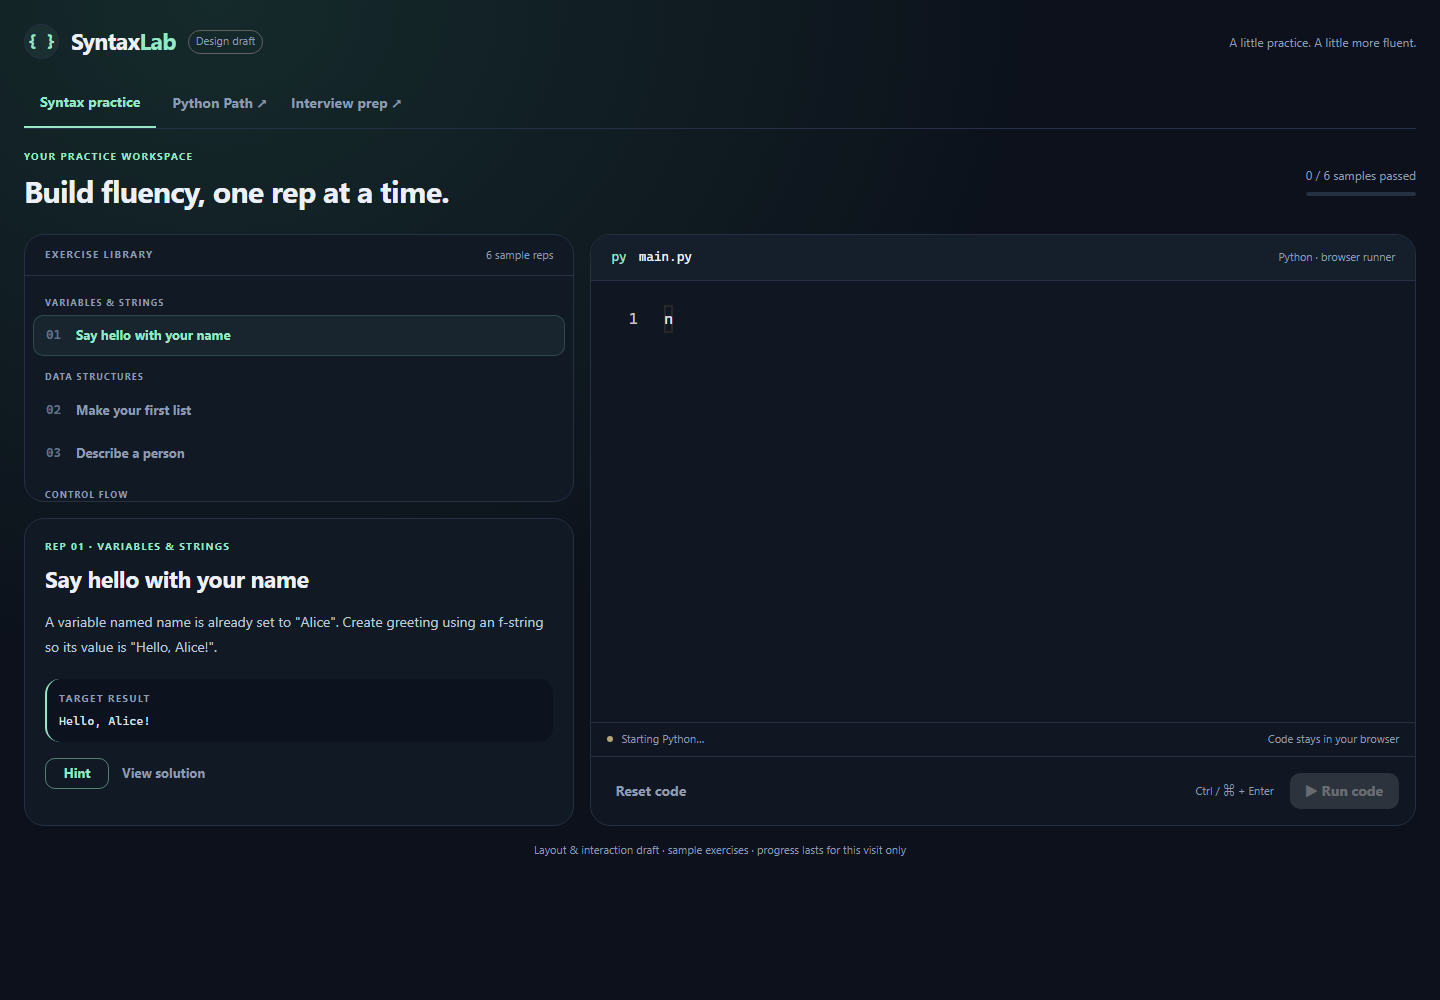
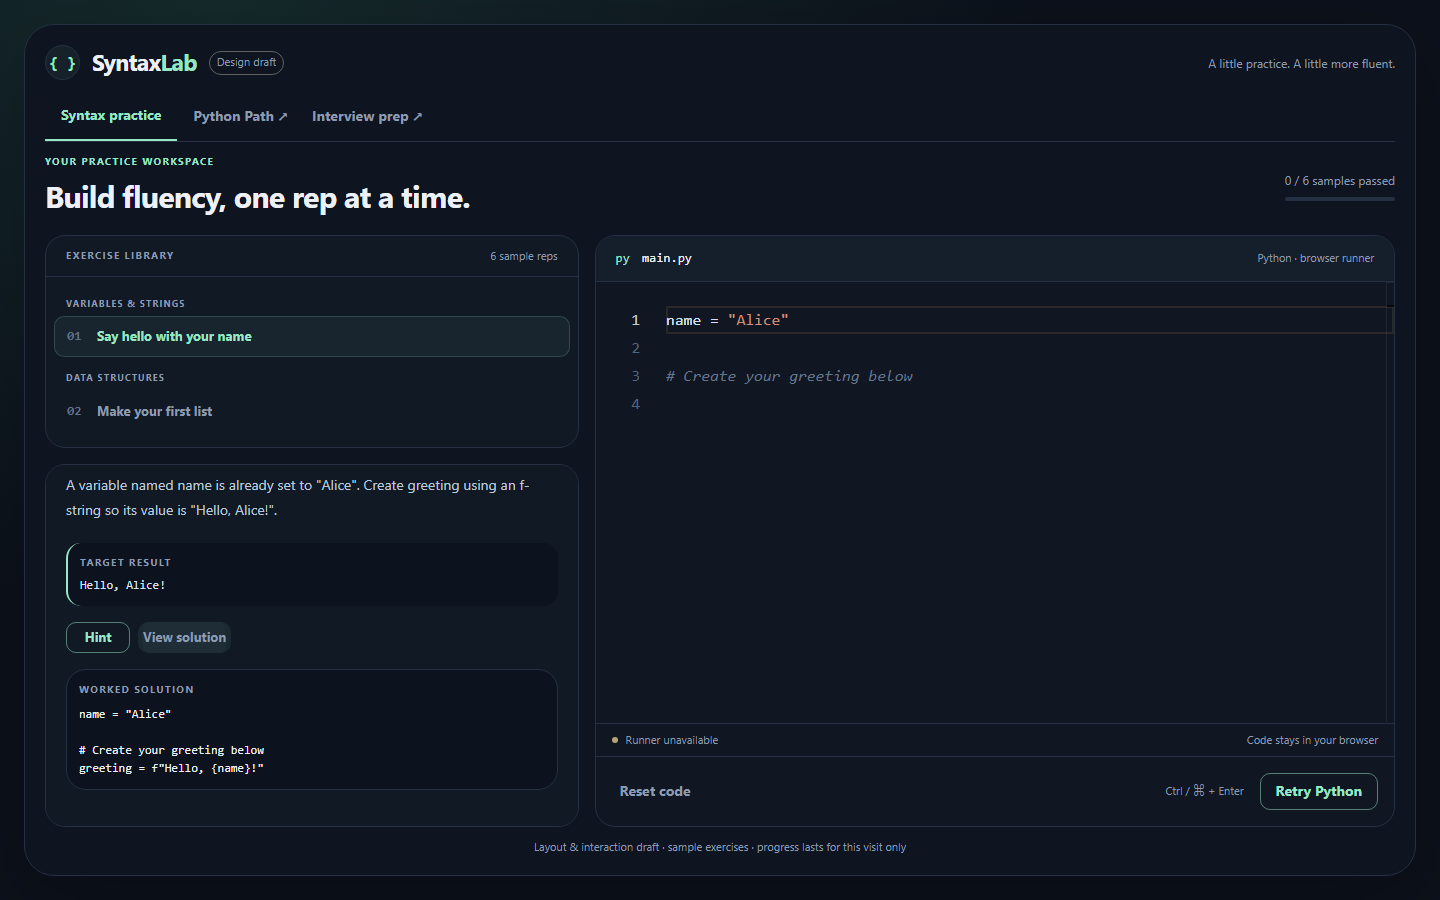
style: fit redesign draft into a floating desktop workspace

diff --git a/frontend/mockups/python-path/RedesignDraft.jsx b/frontend/mockups/python-path/RedesignDraft.jsx
@@ -7,6 +7,31 @@ import exercises from './redesignExercises.js'
 
 const border = { border: '1px solid', borderColor: 'divider', borderRadius: 2 }
 const eyebrow = { fontSize: 10, letterSpacing: '0.13em', textTransform: 'uppercase', fontWeight: 700, color: 'text.secondary' }
+// Short windows and mobile retain document scrolling so content stays reachable.
+const desktop = '@media (min-width: 900px) and (min-height: 640px)'
+const scrollbars = {
+  '& *': { scrollbarWidth: 'thin', scrollbarColor: '#465e63 #101722' },
+  '& ::-webkit-scrollbar': { width: 8, height: 8 },
+  '& ::-webkit-scrollbar-track': { background: '#101722', borderRadius: 8 },
+  '& ::-webkit-scrollbar-thumb': { background: '#465e63', borderRadius: 8, border: '2px solid #101722' },
+  '& ::-webkit-scrollbar-thumb:hover': { background: '#98e7c4' },
+  '& ::-webkit-scrollbar-corner': { background: '#101722' },
+}
+const defineDraftTheme = api => {
+  definePracticeTheme(api)
+  api.editor.defineTheme('synlab-draft', {
+    base: 'vs-dark', inherit: true,
+    rules: [{ token: 'comment', foreground: '64758c', fontStyle: 'italic' }],
+    colors: {
+      'editor.background': '#101722', 'editor.foreground': '#d7e3f3',
+      'editorLineNumber.foreground': '#52657e', 'editorCursor.foreground': '#98e7c4',
+      'scrollbarSlider.background': '#465e6380',
+      'scrollbarSlider.hoverBackground': '#98e7c480',
+      'scrollbarSlider.activeBackground': '#98e7c4aa',
+      'scrollbar.shadow': '#00000000',
+    },
+  })
+}
 
 export default function RedesignDraft() {
   const [index, setIndex] = useState(0)
@@ -26,36 +51,36 @@ export default function RedesignDraft() {
   runRef.current = run
   const groups = [...new Set(exercises.map(item => item.group))]
 
-  return <Box sx={{ minHeight: '100dvh', p: { xs: 1.5, md: 3 }, background: 'radial-gradient(ellipse at 15% 0%, #152a2b 0%, #0c111b 48%)' }}>
-    <Box component="main" sx={{ maxWidth: 1560, mx: 'auto' }}>
-      <Stack direction="row" sx={{ alignItems: 'center', gap: 1.5, mb: 2.5, flexWrap: 'wrap' }}>
+  return <Box sx={{ ...scrollbars, minHeight: '100dvh', p: { xs: 1.5, md: 3 }, background: 'radial-gradient(ellipse at 15% 0%, #152a2b 0%, #0c111b 48%)', [desktop]: { height: '100dvh', display: 'flex', alignItems: 'center', overflow: 'hidden' } }}>
+    <Box component="main" sx={{ width: '100%', maxWidth: 1560, mx: 'auto', [desktop]: { height: '100%', maxHeight: 1080, minHeight: 0, display: 'flex', flexDirection: 'column', p: 2.5, border: '1px solid #253042', borderRadius: 3, bgcolor: '#0e1520', boxShadow: '0 24px 80px #00000040' } }}>
+      <Stack direction="row" sx={{ alignItems: 'center', gap: 1.5, mb: 2.5, flexWrap: 'wrap', flexShrink: 0, [desktop]: { mb: 1.5 } }}>
         <Box sx={{ width: 35, height: 35, ...border, display: 'grid', placeItems: 'center', bgcolor: '#98e7c410', color: 'primary.main', fontFamily: mono, fontWeight: 700 }}>{'{ }'}</Box>
         <Typography sx={{ fontSize: 23, fontWeight: 750, letterSpacing: '-0.7px' }}>Syntax<span style={{ color: '#98e7c4' }}>Lab</span></Typography>
         <Chip size="small" label="Design draft" variant="outlined" sx={{ color: 'text.secondary', fontSize: 11 }} />
         <Typography sx={{ ml: 'auto', color: 'text.secondary', fontSize: 12, display: { xs: 'none', sm: 'block' } }}>A little practice. A little more fluent.</Typography>
       </Stack>
 
-      <Box component="nav" aria-label="Study sections" sx={{ display: 'flex', gap: 1, borderBottom: '1px solid', borderColor: 'divider', mb: 2.5, overflowX: 'auto' }}>
+      <Box component="nav" aria-label="Study sections" sx={{ display: 'flex', gap: 1, borderBottom: '1px solid', borderColor: 'divider', mb: 2.5, overflowX: 'auto', flexShrink: 0, [desktop]: { mb: 1.5 } }}>
         <Button aria-current="page" sx={{ px: 2, py: 1.4, borderBottom: '2px solid', borderRadius: 0, whiteSpace: 'nowrap' }}>Syntax practice</Button>
         <Button component="a" href="./#python" sx={{ color: 'text.secondary', whiteSpace: 'nowrap' }}>Python Path ↗</Button>
         <Button component="a" href="./#interview" sx={{ color: 'text.secondary', whiteSpace: 'nowrap' }}>Interview prep ↗</Button>
       </Box>
 
-      <Stack direction="row" sx={{ alignItems: 'center', justifyContent: 'space-between', gap: 2, mb: 2.5 }}>
+      <Stack direction="row" sx={{ alignItems: 'center', justifyContent: 'space-between', gap: 2, mb: 2.5, flexShrink: 0, [desktop]: { mb: 2 } }}>
         <Box><Typography sx={{ ...eyebrow, color: 'primary.main', mb: 0.6 }}>Your practice workspace</Typography><Typography component="h1" sx={{ fontSize: { xs: 23, md: 30 }, fontWeight: 650, letterSpacing: '-0.7px' }}>Build fluency, one rep at a time.</Typography></Box>
         <Box sx={{ minWidth: 100, textAlign: 'right' }}><Typography sx={{ fontSize: 12, color: 'text.secondary', mb: 1 }}>{completed.length} / {exercises.length} samples passed</Typography><LinearProgress variant="determinate" value={completed.length / exercises.length * 100} sx={{ height: 4, borderRadius: 3, bgcolor: '#253042' }} /></Box>
       </Stack>
 
-      <Box sx={{ display: 'grid', gridTemplateColumns: { xs: 'minmax(0, 1fr)', md: 'minmax(310px, 0.8fr) minmax(0, 1.2fr)' }, gap: 2, alignItems: 'stretch' }}>
-        <Stack spacing={2} sx={{ minWidth: 0 }}>
-          <Box component="section" aria-label="Practice exercises" sx={{ ...border, bgcolor: '#111925', overflow: 'hidden' }}>
+      <Box sx={{ display: 'grid', gridTemplateColumns: { xs: 'minmax(0, 1fr)', md: 'minmax(310px, 0.8fr) minmax(0, 1.2fr)' }, gap: 2, alignItems: 'stretch', [desktop]: { flex: 1, minHeight: 0, gridTemplateRows: 'minmax(0, 1fr)' } }}>
+        <Stack spacing={2} sx={{ minWidth: 0, [desktop]: { minHeight: 0 } }}>
+          <Box component="section" aria-label="Practice exercises" sx={{ ...border, bgcolor: '#111925', overflow: 'hidden', [desktop]: { flex: '0 0 36%', minHeight: 120, display: 'flex', flexDirection: 'column' } }}>
             <Stack direction="row" sx={{ px: 2.5, py: 1.5, justifyContent: 'space-between', borderBottom: '1px solid', borderColor: 'divider' }}><Typography sx={eyebrow}>Exercise library</Typography><Typography sx={{ fontSize: 11, color: 'text.secondary' }}>6 sample reps</Typography></Stack>
-            <Box sx={{ maxHeight: { xs: 185, md: 225 }, overflowY: 'auto', p: 1 }}>
+            <Box tabIndex={0} aria-label="Scroll exercise library" sx={{ maxHeight: { xs: 185, md: 225 }, overflowY: 'auto', p: 1, [desktop]: { flex: 1, minHeight: 0, maxHeight: 'none' } }}>
               {groups.map(group => <Box key={group}><Typography sx={{ ...eyebrow, fontSize: 9, px: 1.5, pt: 1.5, pb: 0.7 }}>{group}</Typography>{exercises.map((item, position) => item.group === group && <Button key={item.id} disabled={running} onClick={() => select(position)} aria-pressed={position === index} fullWidth sx={{ justifyContent: 'flex-start', gap: 1.5, textAlign: 'left', px: 1.5, py: 1, mb: 0.3, color: position === index ? 'primary.main' : 'text.secondary', bgcolor: position === index ? '#98e7c410' : 'transparent', border: '1px solid', borderColor: position === index ? '#98e7c430' : 'transparent', fontSize: 13 }}><Box component="span" sx={{ width: 18, fontFamily: mono, color: completed.includes(item.id) ? 'primary.main' : '#607188' }}>{completed.includes(item.id) ? '✓' : String(position + 1).padStart(2, '0')}</Box>{item.title}</Button>)}</Box>)}
             </Box>
           </Box>
 
-          <Box component="section" aria-labelledby="exercise-title" sx={{ ...border, p: { xs: 2, md: 2.5 }, bgcolor: '#111925', flex: 1 }}>
+          <Box component="section" tabIndex={0} aria-labelledby="exercise-title" sx={{ ...border, p: { xs: 2, md: 2.5 }, bgcolor: '#111925', flex: 1, [desktop]: { minHeight: 0, overflowY: 'auto' } }}>
             <Typography sx={{ ...eyebrow, color: 'primary.main', mb: 1 }}>Rep {String(index + 1).padStart(2, '0')} · {exercise.group}</Typography>
             <Typography id="exercise-title" component="h2" sx={{ fontSize: 23, fontWeight: 650, letterSpacing: '-0.4px', mb: 1.5 }}>{exercise.title}</Typography>
             <Typography sx={{ fontSize: 14, lineHeight: 1.8, color: '#bdc9da' }}>{exercise.prompt}</Typography>
@@ -66,16 +91,16 @@ export default function RedesignDraft() {
           </Box>
         </Stack>
 
-        <Box component="section" aria-label="Code workspace" sx={{ ...border, bgcolor: '#101722', overflow: 'hidden', display: 'flex', flexDirection: 'column', minWidth: 0 }}>
+        <Box component="section" aria-label="Code workspace" sx={{ ...border, bgcolor: '#101722', overflow: 'hidden', display: 'flex', flexDirection: 'column', minWidth: 0, '& > .MuiStack-root': { flexShrink: 0 }, [desktop]: { minHeight: 0 } }}>
           <Stack direction="row" sx={{ alignItems: 'center', px: 2.5, py: 1.6, borderBottom: '1px solid', borderColor: 'divider', bgcolor: '#151e2b' }}><Typography sx={{ fontFamily: mono, fontSize: 13 }}><span style={{ color: '#98e7c4', marginRight: 12 }}>py</span>main.py</Typography><Typography sx={{ ml: 'auto', color: 'text.secondary', fontSize: 11 }}>Python · browser runner</Typography></Stack>
-          <Box sx={{ height: { xs: 350, md: 470 }, flex: { md: 1 }, minHeight: { md: 400 } }}>
-            <Editor height="100%" path={`redesign/${exercise.id}/main.py`} language="python" theme="synlab-practice" beforeMount={definePracticeTheme} value={code} onChange={value => { setDrafts(previous => ({ ...previous, [exercise.id]: value ?? '' })); runner.clearResult() }} onMount={(editor, api) => editor.addCommand(api.KeyMod.CtrlCmd | api.KeyCode.Enter, () => runRef.current())} options={{ ariaLabel: 'Draft Python code editor', fontFamily: mono, fontSize: 16, lineHeight: 28, minimap: { enabled: false }, padding: { top: 24 }, scrollBeyondLastLine: false, automaticLayout: true, tabSize: 4, occurrencesHighlight: 'off', readOnly: running, wordWrap: 'on', quickSuggestions: false, wordBasedSuggestions: 'off', suggestOnTriggerCharacters: false }} />
+          <Box sx={{ height: { xs: 350, md: 470 }, flex: { md: 1 }, minHeight: { md: 400 }, [desktop]: { height: 'auto', flex: 1, minHeight: 0 } }}>
+            <Editor height="100%" path={`redesign/${exercise.id}/main.py`} language="python" theme="synlab-draft" beforeMount={defineDraftTheme} value={code} onChange={value => { setDrafts(previous => ({ ...previous, [exercise.id]: value ?? '' })); runner.clearResult() }} onMount={(editor, api) => editor.addCommand(api.KeyMod.CtrlCmd | api.KeyCode.Enter, () => runRef.current())} options={{ ariaLabel: 'Draft Python code editor', fontFamily: mono, fontSize: 16, lineHeight: 28, minimap: { enabled: false }, padding: { top: 24 }, scrollbar: { verticalScrollbarSize: 8, horizontalScrollbarSize: 8, useShadows: false }, scrollBeyondLastLine: false, automaticLayout: true, tabSize: 4, occurrencesHighlight: 'off', readOnly: running, wordWrap: 'on', quickSuggestions: false, wordBasedSuggestions: 'off', suggestOnTriggerCharacters: false }} />
           </Box>
           <Stack direction="row" sx={{ px: 2, py: 1, borderTop: '1px solid', borderColor: 'divider', gap: 1, alignItems: 'center' }}><Box sx={{ width: 6, height: 6, borderRadius: '50%', bgcolor: runner.status === 'ready' ? 'primary.main' : '#b6a477' }} /><Typography sx={{ fontSize: 11, color: 'text.secondary' }}>{runner.status === 'ready' ? 'Ready to run' : runner.status === 'loading' ? 'Starting Python…' : running ? 'Running…' : 'Runner unavailable'}</Typography><Typography sx={{ ml: 'auto', fontSize: 11, color: 'text.secondary' }}>Code stays in your browser</Typography></Stack>
           <Stack direction="row" sx={{ p: 2, borderTop: '1px solid', borderColor: 'divider', gap: 1, alignItems: 'center', flexWrap: 'wrap' }}><Button disabled={running} sx={{ color: 'text.secondary' }} onClick={() => { setDrafts(previous => ({ ...previous, [exercise.id]: exercise.starter })); runner.clearResult(); setHelp(null) }}>Reset code</Button><Typography sx={{ ml: 'auto', fontSize: 11, color: 'text.secondary', display: { xs: 'none', lg: 'block' } }}>Ctrl / ⌘ + Enter</Typography><Box sx={{ ml: { xs: 'auto', lg: 0 } }} />{runner.status === 'unavailable' ? <Button variant="outlined" onClick={runner.restart}>Retry Python</Button> : running ? <Button variant="outlined" onClick={runner.stop}>Stop</Button> : <Button variant="contained" disabled={runner.status !== 'ready'} onClick={run}>▶ Run code</Button>}{runner.result?.passed && index < exercises.length - 1 && <Button variant="outlined" onClick={() => select(index + 1)}>Next rep →</Button>}</Stack>
         </Box>
       </Box>
-      <Typography sx={{ textAlign: 'center', fontSize: 11, color: 'text.secondary', mt: 2 }}>Layout & interaction draft · sample exercises · progress lasts for this visit only</Typography>
+      <Typography sx={{ textAlign: 'center', fontSize: 11, color: 'text.secondary', mt: 2, flexShrink: 0, [desktop]: { mt: 1.5 } }}>Layout & interaction draft · sample exercises · progress lasts for this visit only</Typography>
     </Box>
   </Box>
 }

diff --git a/frontend/mockups/python-path/REDESIGN-DRAFT.md b/frontend/mockups/python-path/REDESIGN-DRAFT.md
@@ -6,8 +6,11 @@ production frontend or the Python Path preview.
 
 The desktop layout retains the original question library above the prompt on
 the left and the code editor on the right. Navy surfaces, mint accents, editor
-theme, typography and feedback styling come from Python Path. Mobile stacks
-the library, prompt and editor.
+theme, typography and feedback styling come from Python Path. Desktop uses one
+viewport-sized floating panel, with internal library, prompt and editor scrolling.
+Native and Monaco scrollbars use slate tracks/thumbs and mint hover accents.
+Mobile stacks the library, prompt and editor. Windows shorter than 640px retain
+document scrolling so controls remain reachable.
 
 Six independently authored sample exercises demonstrate selection, retained
 edits, hints, worked solutions, real browser-only Python checks, reset,
@@ -27,4 +30,11 @@ the preview with approved access resolved it. Two smoke assertions were correcte
 to match syntax feedback and the completed-row checkmark. Final check passed.
 
 Screenshots: `redesign-feedback.png` and `redesign-mobile.png`.
+Follow-up layout checks passed at 1440 × 900, 1280 × 720, 1024 × 640 and
+1920 × 1080: no document overflow with an expanded solution, Run/retry controls
+remain in view, and the prompt scrolls internally. Mobile 390 × 844 preserves
+vertical scrolling without horizontal overflow; 1280 × 500 uses the short-window
+fallback. No browser page errors. This focused layout check did not validate the
+Python runtime download, which was unavailable in the sandbox browser session.
+
 No production deployment or push was performed for this draft.
